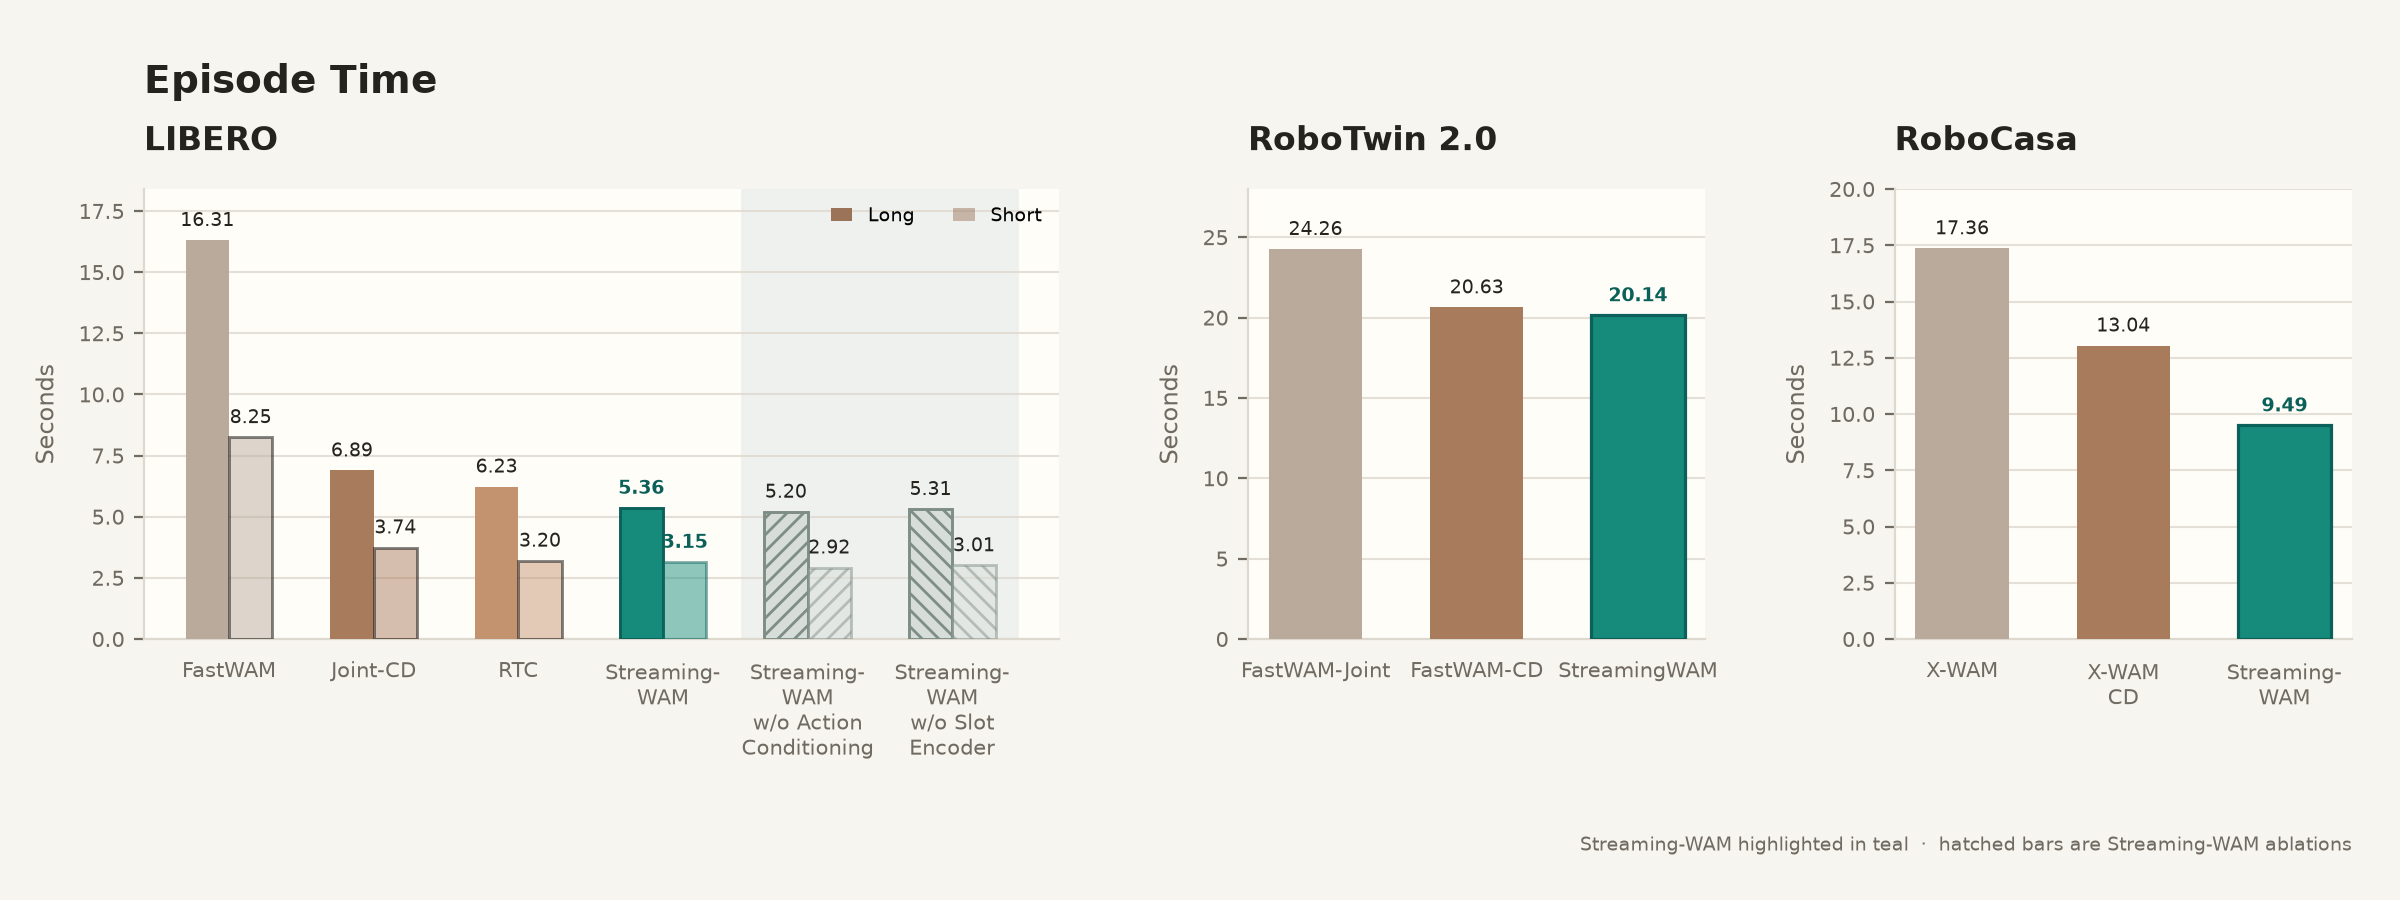
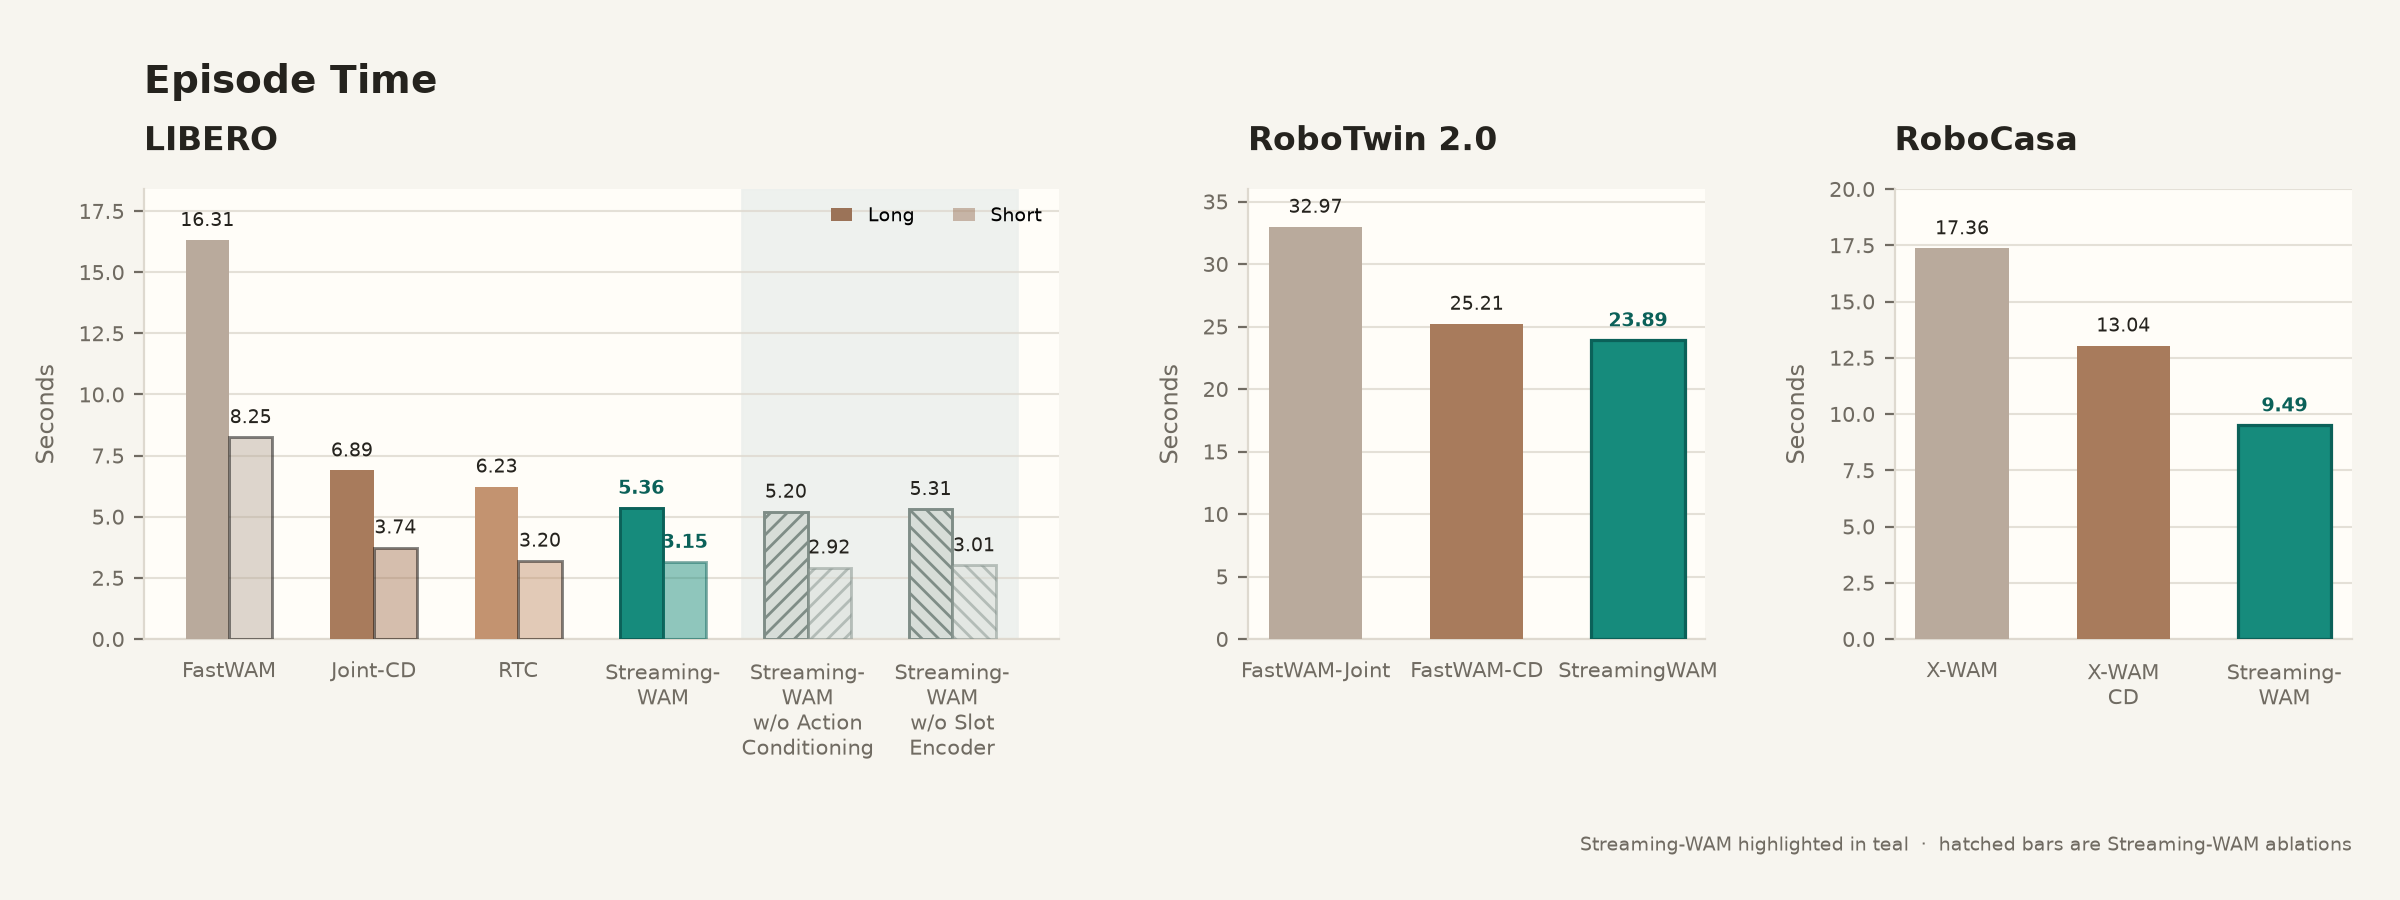
docs: update RoboTwin episode times

diff --git a/docs/index.html b/docs/index.html
@@ -361,7 +361,7 @@
 
           <div class="efficiency-intro reading-column">
             <p><strong>Inference efficiency.</strong> Task success alone does not characterize runtime efficiency. We therefore report Chunk Time, the latency required to prepare the next action chunk, and Episode Time, the duration of a complete rollout, including inference, execution, and replanning.</p>
-            <p>Across all three benchmarks, Streaming-WAM reduces both runtime measures while maintaining comparable task success. On LIBERO, it achieves a 12.0× Chunk Time speedup over FastWAM and Episode Time speedups of 3.0× and 2.6× on Long and Short tasks, respectively, with 98.20% average success. On RoboTwin 2.0, relative to FastWAM-Joint, StreamingWAM reduces Chunk Time from 652.1 ms to 54.4 ms and Episode Time from 24.26 s to 20.14 s, while increasing overall success from 87.0 to 90.6. On RoboCasa, relative to X-WAM, Streaming-WAM achieves a 3.2× Chunk Time speedup and a 1.8× Episode Time speedup, with comparable average success (75.35% versus 75.42%).</p>
+            <p>Across all three benchmarks, Streaming-WAM reduces both runtime measures while maintaining comparable task success. On LIBERO, it achieves a 12.0× Chunk Time speedup over FastWAM and Episode Time speedups of 3.0× and 2.6× on Long and Short tasks, respectively, with 98.20% average success. On RoboTwin 2.0, relative to FastWAM-Joint, StreamingWAM reduces Chunk Time from 652.1 ms to 54.4 ms and Episode Time from 32.97 s to 23.89 s, while increasing overall success from 87.0 to 90.6. On RoboCasa, relative to X-WAM, Streaming-WAM achieves a 3.2× Chunk Time speedup and a 1.8× Episode Time speedup, with comparable average success (75.35% versus 75.42%).</p>
           </div>
           <figure class="latency-figure breakout" aria-labelledby="chunk-time-caption">
             <div class="latency-viewport">
@@ -373,8 +373,8 @@
           </figure>
           <figure class="latency-figure breakout" aria-labelledby="episode-time-caption">
             <div class="latency-viewport">
-              <a class="latency-image-link" href="assets/streaming-wam-episode-time.png?v=robotwin-fastwam-20260830" target="_blank" rel="noopener noreferrer" aria-label="Open the full-resolution Streaming-WAM Episode Time figure">
-                <img class="latency-plot" src="assets/streaming-wam-episode-time.png?v=robotwin-fastwam-20260830" alt="Episode-time comparison for LIBERO, RoboTwin 2.0, and RoboCasa." width="2400" height="900" aria-describedby="episode-time-caption latency-data-caption">
+              <a class="latency-image-link" href="assets/streaming-wam-episode-time.png?v=robotwin-all-episodes-20260830" target="_blank" rel="noopener noreferrer" aria-label="Open the full-resolution Streaming-WAM Episode Time figure">
+                <img class="latency-plot" src="assets/streaming-wam-episode-time.png?v=robotwin-all-episodes-20260830" alt="Episode-time comparison for LIBERO, RoboTwin 2.0, and RoboCasa." width="2400" height="900" aria-describedby="episode-time-caption latency-data-caption">
               </a>
             </div>
             <figcaption id="episode-time-caption">Episode Time comparison for LIBERO, RoboTwin 2.0, and RoboCasa. LIBERO reports Long and Short tasks separately.</figcaption>
@@ -389,9 +389,9 @@
                 <tr><th scope="row">LIBERO</th><td>Streaming-WAM</td><td>41.0 ms</td><td>5.36 s Long / 3.15 s Short</td></tr>
                 <tr><th scope="row">LIBERO</th><td>Streaming-WAM w/o Action Conditioning</td><td>35.1 ms</td><td>5.20 s Long / 2.92 s Short</td></tr>
                 <tr><th scope="row">LIBERO</th><td>Streaming-WAM w/o Slot Encoder</td><td>36.3 ms</td><td>5.31 s Long / 3.01 s Short</td></tr>
-                <tr><th scope="row">RoboTwin 2.0</th><td>FastWAM-Joint</td><td>652.1 ms</td><td>24.26 s</td></tr>
-                <tr><th scope="row">RoboTwin 2.0</th><td>FastWAM-CD</td><td>165.2 ms</td><td>20.63 s</td></tr>
-                <tr><th scope="row">RoboTwin 2.0</th><td>StreamingWAM</td><td>54.4 ms</td><td>20.14 s</td></tr>
+                <tr><th scope="row">RoboTwin 2.0</th><td>FastWAM-Joint</td><td>652.1 ms</td><td>32.97 s</td></tr>
+                <tr><th scope="row">RoboTwin 2.0</th><td>FastWAM-CD</td><td>165.2 ms</td><td>25.21 s</td></tr>
+                <tr><th scope="row">RoboTwin 2.0</th><td>StreamingWAM</td><td>54.4 ms</td><td>23.89 s</td></tr>
                 <tr><th scope="row">RoboCasa</th><td>X-WAM</td><td>374.07 ms</td><td>17.36 s</td></tr>
                 <tr><th scope="row">RoboCasa</th><td>X-WAM-CD</td><td>134.37 ms</td><td>13.04 s</td></tr>
                 <tr><th scope="row">RoboCasa</th><td>Streaming-WAM</td><td>115.98 ms</td><td>9.49 s</td></tr>

diff --git a/docs/generate_latency_figure.py b/docs/generate_latency_figure.py
@@ -42,7 +42,7 @@ LIBERO_SHORT = (8.25, 3.74, 3.20, 3.15, 2.92, 3.01)
 
 ROBOTWIN_METHODS = ("FastWAM-Joint", "FastWAM-CD", "StreamingWAM")
 ROBOTWIN_CHUNK = (652.1, 165.2, 54.4)
-ROBOTWIN_EPISODE = (24.26, 20.63, 20.14)
+ROBOTWIN_EPISODE = (32.97, 25.21, 23.89)
 ROBOCASA_METHODS = ("X-WAM", "X-WAM\nCD", "Streaming-\nWAM")
 ROBOCASA_CHUNK = (374.07, 134.37, 115.98)
 ROBOCASA_EPISODE = (17.36, 13.04, 9.49)
@@ -241,7 +241,7 @@ def render_episode_time(output_path: Path) -> None:
     _draw_libero_episode(axes[0])
     _draw_three_method_panel(
         axes[1], title="RoboTwin 2.0", ylabel="Seconds", methods=ROBOTWIN_METHODS,
-        values=ROBOTWIN_EPISODE, ceiling=28,
+        values=ROBOTWIN_EPISODE, ceiling=36,
     )
     _draw_three_method_panel(
         axes[2], title="RoboCasa", ylabel="Seconds", methods=ROBOCASA_METHODS,
